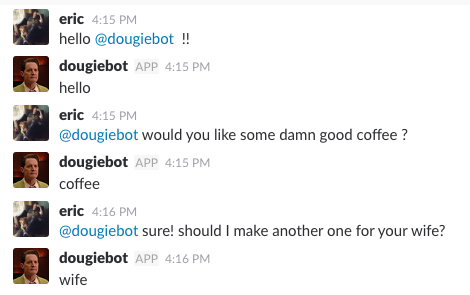
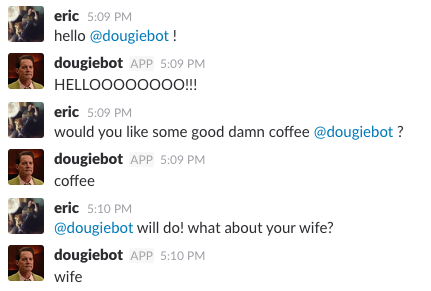
now responds excited helllllooooo to hello

Changed region(s): [[0.0, 0.0, 0.935, 0.6495], [0.0, 0.6804, 0.9652, 0.9897]]

diff --git a/dougiebot/__init__.py b/dougiebot/__init__.py
@@ -29,6 +29,8 @@ def main():
     def repeat_last_word(text, channel):
         word = last_word(text.replace(AT_BOT, ''))
         if word:
+            if word == 'hello':
+                word = 'HELLOOOOOOOO!!!'
             print("Repeating:", word)
             slack_client.api_call("chat.postMessage", channel=channel, text=word, as_user=True)
 
